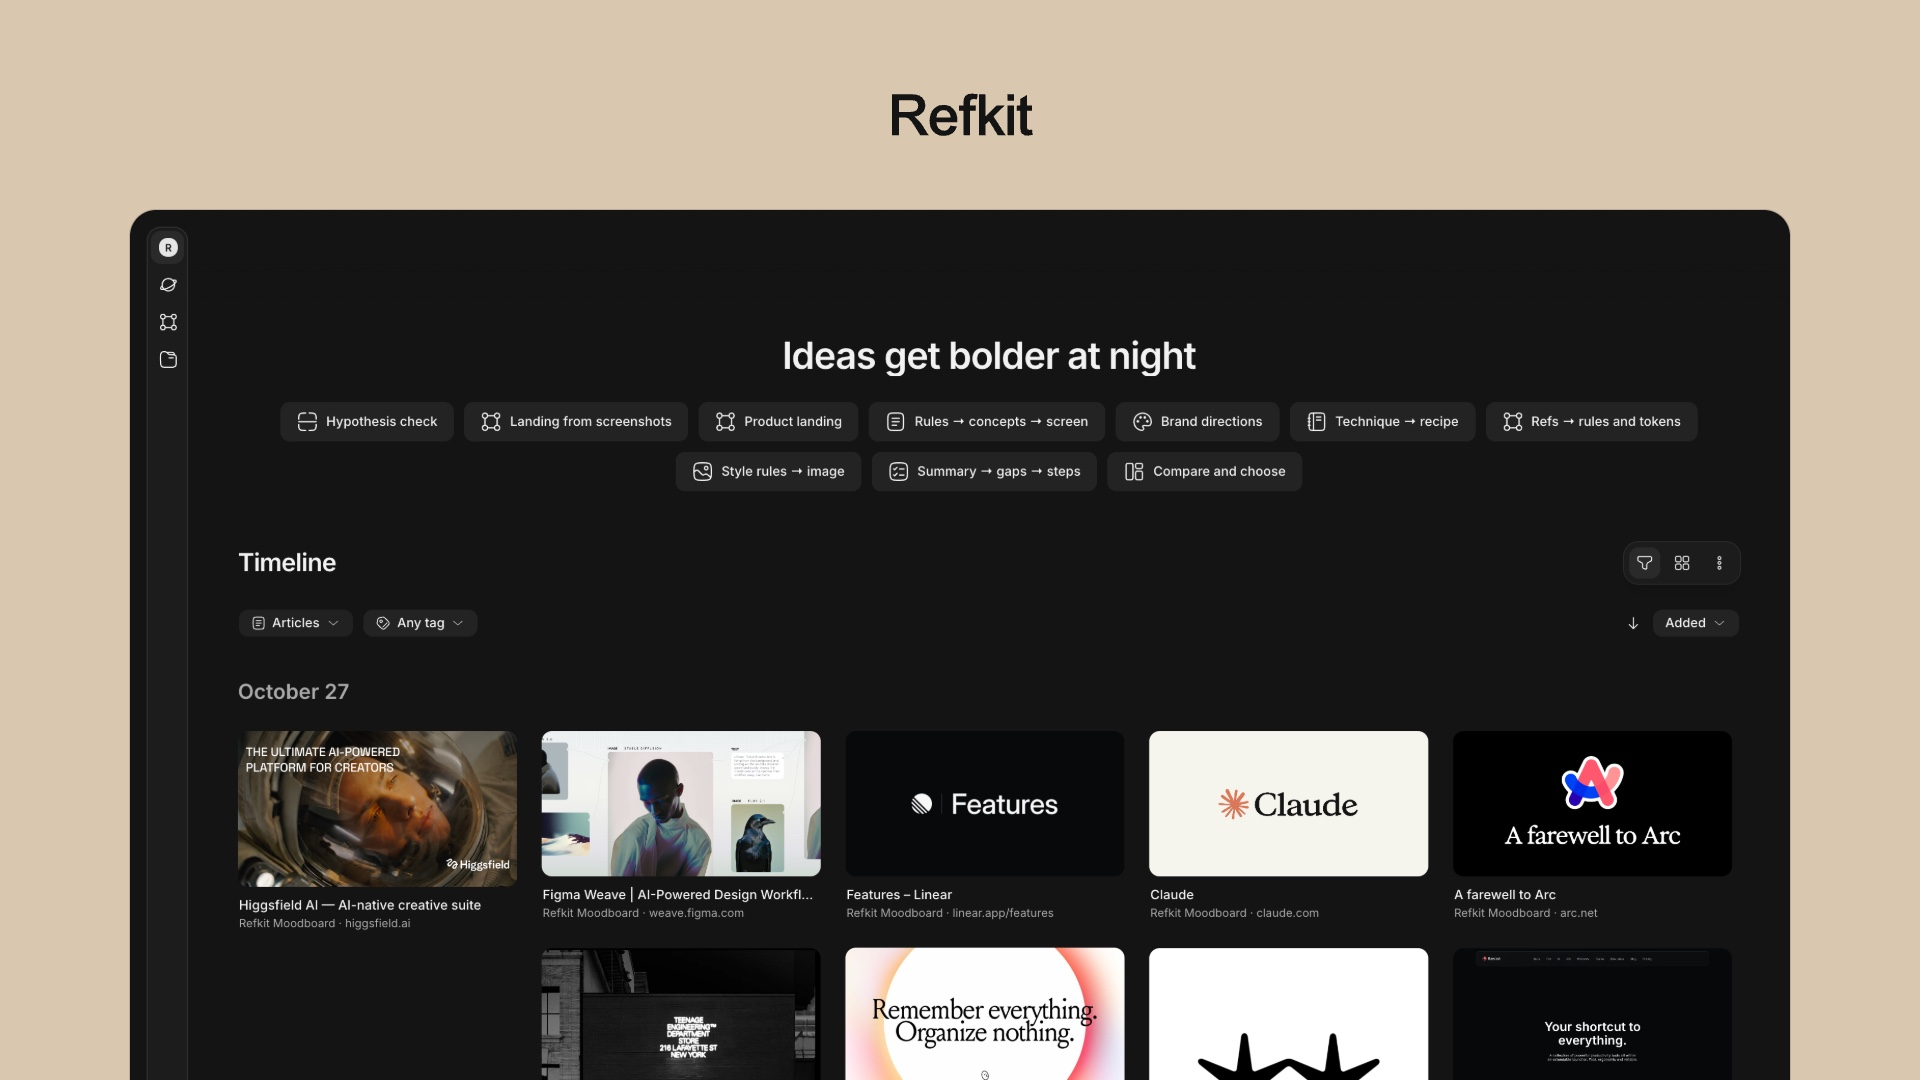
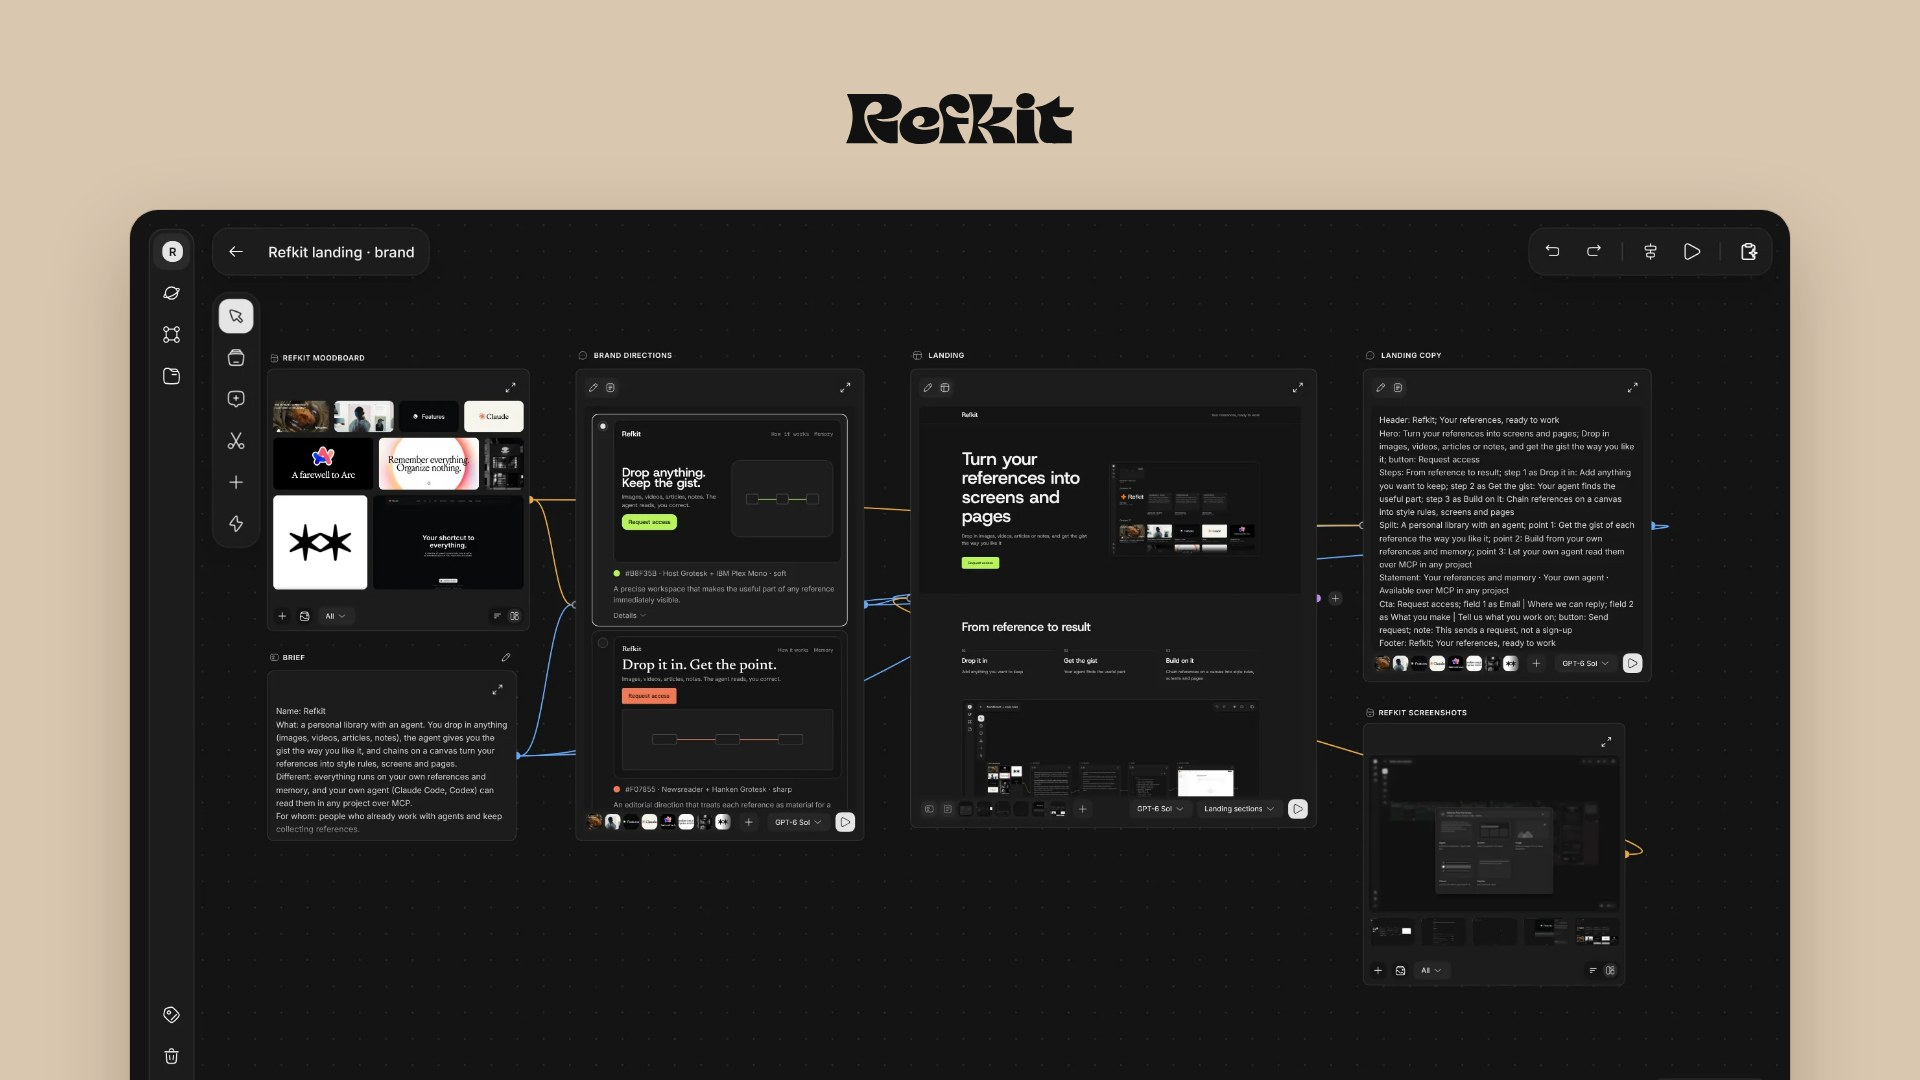
Portfolio

diff --git a/styles.css b/styles.css
@@ -32,17 +32,14 @@ h1 { max-width: var(--content-heading-max-width); margin: 0; color: var(--color-
 .project-meta p { margin: 0; }
 .project-meta h2 { margin: 0 0 var(--space-3); }
 .project-meta p:last-child { max-width: var(--content-body-max-width); color: var(--color-text-secondary); font-size: var(--font-size-body); font-weight: var(--font-weight-regular); line-height: var(--line-height-body); }
-.case-cursor { position: fixed; top: 0; left: 0; z-index: 1000; display: none; width: var(--cursor-size); height: var(--cursor-size); align-items: center; justify-content: center; overflow: hidden; border: var(--border-width) solid var(--color-cursor-ink); border-radius: var(--radius-pill); background: transparent; color: var(--color-cursor-ink); font-family: var(--font-family-sans); font-size: var(--font-size-button); font-weight: var(--font-weight-heading); letter-spacing: var(--letter-spacing-heading); line-height: var(--line-height-button); mix-blend-mode: difference; opacity: 0; pointer-events: none; transform: translate3d(var(--cursor-x, -100px), var(--cursor-y, -100px), 0) translate(-50%, -50%); transition: width var(--duration-medium) var(--ease-out), height var(--duration-medium) var(--ease-out), opacity var(--duration-fast) var(--ease-standard); white-space: nowrap; }
-.ds-contact-dialog .case-cursor { mix-blend-mode: normal; }
-.case-cursor span { opacity: 0; transform: translateY(var(--space-1)); transition: opacity 100ms var(--ease-standard), transform 160ms var(--ease-standard); }
-.case-cursor.is-visible { opacity: 1; }
-.case-cursor.is-case { width: var(--cursor-case-width); height: var(--control-cta-height); }
-.case-cursor.is-case span { opacity: 1; transform: translateY(var(--control-label-optical-shift)); transition-delay: 70ms; }
-
 .project--lavender .project-art { background: var(--color-project-base); }
 .project--paper .project-art { background: var(--gradient-project-paper); }
 .project--ink .project-art { background: var(--gradient-project-ink); }
 :root[data-theme="dark"] .project-art:not(.project-art--image) { filter: saturate(.88) brightness(.78); }
+.project-art--scout { background: var(--color-surface-explorer); }
+.project-scout-lockup { display: flex; flex-direction: column; align-items: center; gap: var(--space-4); }
+.project-scout-name { color: var(--color-text-primary); font-size: var(--font-size-display); font-weight: var(--font-weight-heading); letter-spacing: var(--letter-spacing-heading); line-height: var(--line-height-tight); }
+.project-scout-status { padding: var(--space-2) var(--space-4); border: var(--border-width) solid var(--color-hairline); border-radius: var(--radius-pill); color: var(--color-text-secondary); font-size: var(--font-size-label); line-height: var(--line-height-button); }
 
 .case-detail { display: grid; width: 100%; max-width: var(--layout-max-width); min-height: 100vh; margin: 0 auto; padding: var(--space-8) var(--layout-page-gutter) var(--space-30); grid-template-columns: minmax(0, 1fr); }
 .case-detail-topbar { display: flex; align-items: center; justify-content: space-between; margin-bottom: var(--case-topbar-gap); }
@@ -254,16 +251,10 @@ h1 { max-width: var(--content-heading-max-width); margin: 0; color: var(--color-
   .ds-doc-media { border-radius: var(--radius-media); }
 }
 
-@media (hover: hover) and (pointer: fine) {
-  .case-cursor { display: flex; }
-  html.custom-cursor-ready,
-  html.custom-cursor-ready body,
-  html.custom-cursor-ready body * { cursor: none !important; }
-}
-
 @media (prefers-reduced-motion: no-preference) {
   .project-art { transition: background-color var(--duration-medium) var(--ease-standard), filter var(--duration-medium) var(--ease-standard), transform var(--duration-medium) var(--ease-out); }
   .project-art:hover:not(.project-art--image) { transform: scale(.985); }
+  .project--static .project-art:hover { transform: none; }
 
   /* Reveal on scroll. Hidden states apply only once JS has added .reveal-ready,
      so the list stays readable if the script never runs. */
@@ -291,7 +282,6 @@ h1 { max-width: var(--content-heading-max-width); margin: 0; color: var(--color-
 }
 
 @media (prefers-reduced-motion: reduce) {
-  .case-cursor, .case-cursor span { transition: none; }
   .avatar { transition: none; }
 }
 

diff --git a/script.js b/script.js
@@ -4,7 +4,7 @@ document.querySelectorAll('.profile-footer-link[aria-disabled="true"]').forEach(
 
 const contactDialog = document.querySelector("[data-contact-dialog]");
 if (contactDialog) {
-  const contactCursor = document.querySelector(".case-cursor");
+  const contactCursor = document.querySelector(".site-cursor");
   const emailButton = contactDialog.querySelector("[data-copy-email]");
   const copyStatus = contactDialog.querySelector("[data-copy-status]");
   let copyResetTimer;
@@ -161,59 +161,14 @@ const smoothLoop = (now) => {
 
 if (!projects.length) requestAnimationFrame(smoothLoop);
 
-const caseCursor = document.querySelector(".case-cursor");
-
 if (projects.length) {
   const scrollSettleDelay = parseFloat(rootStyles.getPropertyValue("--scroll-settle-delay")) || 180;
   const scrollSnapDuration = parseFloat(rootStyles.getPropertyValue("--duration-scroll-snap")) || 900;
   const scrollSnapAttraction = parseFloat(rootStyles.getPropertyValue("--scroll-snap-attraction")) || 0.26;
   const projectTiltMaxAngle = parseFloat(rootStyles.getPropertyValue("--project-tilt-max-angle")) || 4;
-  let cursorX = -100;
-  let cursorY = -100;
-  let cursorTargetX = -100;
-  let cursorTargetY = -100;
-
-  const moveCaseCursor = (event) => {
-    if (!caseCursor || !precisePointer.matches) return;
-    cursorTargetX = event.clientX;
-    cursorTargetY = event.clientY;
-    if (!caseCursor.classList.contains("is-visible")) {
-      cursorX = cursorTargetX;
-      cursorY = cursorTargetY;
-      caseCursor.style.setProperty("--cursor-x", `${cursorX}px`);
-      caseCursor.style.setProperty("--cursor-y", `${cursorY}px`);
-    }
-    caseCursor.classList.add("is-visible");
-  };
-
-  const renderCaseCursor = () => {
-    if (!caseCursor || !precisePointer.matches) return;
-    const cursorSmoothing = reducedMotion.matches ? 1 : 0.42;
-    cursorX += (cursorTargetX - cursorX) * cursorSmoothing;
-    cursorY += (cursorTargetY - cursorY) * cursorSmoothing;
-    caseCursor.style.setProperty("--cursor-x", `${cursorX}px`);
-    caseCursor.style.setProperty("--cursor-y", `${cursorY}px`);
-  };
-
-  const syncCursorMode = () => {
-    const isEnabled = Boolean(caseCursor && precisePointer.matches);
-    document.documentElement.classList.toggle("custom-cursor-ready", isEnabled);
-    if (!isEnabled) caseCursor?.classList.remove("is-visible", "is-case");
-  };
-
-  const hideCaseCursor = () => caseCursor?.classList.remove("is-visible", "is-case");
-  const expandCaseCursor = () => caseCursor?.classList.add("is-case");
-  const collapseCaseCursor = () => caseCursor?.classList.remove("is-case");
-
-  syncCursorMode();
-  precisePointer.addEventListener("change", syncCursorMode);
-  document.addEventListener("pointermove", moveCaseCursor);
-  document.documentElement.addEventListener("pointerleave", hideCaseCursor);
-
   const openProject = (project) => {
     const caseUrl = project.dataset.caseUrl;
     if (!caseUrl) return;
-    collapseCaseCursor();
     const destination = new URL(caseUrl, window.location.href);
     if (destination.origin !== window.location.origin) {
       window.open(destination.href, "_blank", "noopener,noreferrer");
@@ -238,10 +193,6 @@ if (projects.length) {
         }
       });
     }
-    art?.addEventListener("pointerenter", () => {
-      if (hasCase) expandCaseCursor();
-    });
-    art?.addEventListener("pointerleave", collapseCaseCursor);
     if (art?.classList.contains("project-art--image")) {
       art.addEventListener("pointermove", (event) => {
         if (!precisePointer.matches || reducedMotion.matches || event.pointerType === "touch") return;
@@ -358,7 +309,6 @@ if (projects.length) {
 
   const animate = (now) => {
     renderSmoothScroll(now);
-    renderCaseCursor();
     renderCoverParallax();
     requestAnimationFrame(animate);
   };

diff --git a/cursor.js b/cursor.js
@@ -1,0 +1,56 @@
+(() => {
+  const precisePointer = window.matchMedia("(hover: hover) and (pointer: fine)");
+  const reducedMotion = window.matchMedia("(prefers-reduced-motion: reduce)");
+  const cursor = document.createElement("div");
+  cursor.className = "site-cursor";
+  cursor.setAttribute("aria-hidden", "true");
+
+  const style = document.createElement("style");
+  style.textContent = `
+    .site-cursor { position: fixed; top: 0; left: 0; z-index: 2147483647; display: none; width: var(--cursor-size, 42px); height: var(--cursor-size, 42px); border: var(--border-width, 1px) solid var(--color-cursor-ink, #fff); border-radius: 50%; box-sizing: border-box; mix-blend-mode: difference; opacity: 0; pointer-events: none; transform: translate3d(var(--site-cursor-x, -100px), var(--site-cursor-y, -100px), 0) translate(-50%, -50%); transition: opacity var(--duration-fast, 160ms) var(--ease-standard, ease); }
+    .site-cursor.is-visible { opacity: 1; }
+    dialog .site-cursor { mix-blend-mode: normal; }
+    @media (hover: hover) and (pointer: fine) {
+      .site-cursor { display: block; }
+      html.site-cursor-ready, html.site-cursor-ready body, html.site-cursor-ready body * { cursor: none !important; }
+    }
+    @media (prefers-reduced-motion: reduce) { .site-cursor { transition: none; } }
+  `;
+  document.head.append(style);
+  document.body.append(cursor);
+
+  let x = -100;
+  let y = -100;
+  let targetX = -100;
+  let targetY = -100;
+
+  const syncMode = () => {
+    document.documentElement.classList.toggle("site-cursor-ready", precisePointer.matches);
+    if (!precisePointer.matches) cursor.classList.remove("is-visible");
+  };
+
+  document.addEventListener("pointermove", (event) => {
+    if (!precisePointer.matches) return;
+    targetX = event.clientX;
+    targetY = event.clientY;
+    if (!cursor.classList.contains("is-visible")) {
+      x = targetX;
+      y = targetY;
+    }
+    cursor.classList.add("is-visible");
+  });
+  document.documentElement.addEventListener("pointerleave", () => cursor.classList.remove("is-visible"));
+
+  const render = () => {
+    const smoothing = reducedMotion.matches ? 1 : 0.42;
+    x += (targetX - x) * smoothing;
+    y += (targetY - y) * smoothing;
+    cursor.style.setProperty("--site-cursor-x", `${x}px`);
+    cursor.style.setProperty("--site-cursor-y", `${y}px`);
+    requestAnimationFrame(render);
+  };
+
+  syncMode();
+  precisePointer.addEventListener("change", syncMode);
+  requestAnimationFrame(render);
+})();

diff --git a/case-atlas.html b/case-atlas.html
@@ -5,8 +5,8 @@
     <meta name="viewport" content="width=device-width, initial-scale=1.0" />
     <meta name="description" content="ATLAS: a music time machine that throws you into the sound of a place and an era. A product design case study by Nikolai Myshkin." />
     <title>ATLAS · Nikolai Myshkin</title>
-    <link rel="stylesheet" href="design-system.css?v=20261031-3" />
-    <link rel="stylesheet" href="styles.css?v=20261031-3" />
+    <link rel="stylesheet" href="design-system.css?v=20261104-1" />
+    <link rel="stylesheet" href="styles.css?v=20261104-1" />
     <script type="importmap">
       {
         "imports": {
@@ -15,9 +15,10 @@
         }
       }
     </script>
-    <script src="script.js?v=20261031-3" defer></script>
-    <script src="screen-gallery.js?v=20261031-3" defer></script>
-    <script type="module" src="tools/atlas-phone-motion.js?v=20261031-3"></script>
+    <script src="cursor.js?v=20261104-1" defer></script>
+    <script src="script.js?v=20261104-1" defer></script>
+    <script src="screen-gallery.js?v=20261104-1" defer></script>
+    <script type="module" src="tools/atlas-phone-motion.js?v=20261104-1"></script>
   </head>
   <body class="case-detail-body" data-case-reveal>
     <main class="case-detail" id="top">
@@ -36,7 +37,7 @@
         <figure class="ds-figure case-hero-media">
           <div class="ds-device">
             <div class="ds-embed" data-embed>
-              <iframe src="atlas-app/index.html?inset=44&amp;inset-bottom=8&amp;v=20261031-3" title="ATLAS prototype" allow="autoplay"></iframe>
+              <iframe src="atlas-app/index.html?inset=44&amp;inset-bottom=8&amp;v=20261104-1" title="ATLAS prototype" allow="autoplay"></iframe>
               <button class="case-embed-shield" type="button" data-embed-unlock aria-label="Tap to try the prototype"><span>Tap to try</span></button>
             </div>
             <div class="ds-device-status" aria-hidden="true">

diff --git a/index.html b/index.html
@@ -5,9 +5,10 @@
     <meta name="viewport" content="width=device-width, initial-scale=1.0" />
     <meta name="description" content="Nikolai Myshkin is a product designer building AI-native products through product research, UX, visual design, and code." />
     <title>Nikolai Myshkin | Product designer building AI-native products</title>
-    <link rel="stylesheet" href="design-system.css?v=20261031-3" />
-    <link rel="stylesheet" href="styles.css?v=20261031-3" />
-    <script src="script.js?v=20261031-3" defer></script>
+    <link rel="stylesheet" href="design-system.css?v=20261104-1" />
+    <link rel="stylesheet" href="styles.css?v=20261104-1" />
+    <script src="cursor.js?v=20261104-1" defer></script>
+    <script src="script.js?v=20261104-1" defer></script>
   </head>
   <body>
     <main class="layout">
@@ -47,11 +48,19 @@
             </div>
             <div class="project-meta"><h2>ATLAS</h2><p>A music time machine: the globe sets the place, the dial sets the era, and one tap sets both.</p></div>
           </article>
+
+          <article class="project project--static" id="scout">
+            <div class="project-art project-art--scout" aria-hidden="true">
+              <div class="project-scout-lockup">
+                <span class="project-scout-name">Scout</span>
+                <span class="project-scout-status">Coming soon</span>
+              </div>
+            </div>
+            <div class="project-meta"><h2>Scout</h2><p>Coming soon.</p></div>
+          </article>
         </div>
       </section>
     </main>
-
-    <div class="case-cursor" aria-hidden="true"><span>Watch the case</span></div>
 
     <dialog class="ds-contact-dialog ds-theme-dark" data-contact-dialog aria-labelledby="contact-title" tabindex="-1">
       <div class="ds-contact-header">

diff --git a/atlas-app/index.html b/atlas-app/index.html
@@ -4,6 +4,7 @@
 <meta charset="UTF-8">
 <meta name="viewport" content="width=device-width, initial-scale=1.0">
 <title>ATLAS — v4 (Figma Main Screen 212:1647)</title>
+<script src="../cursor.js" defer></script>
 <!-- единицу адаптива ставим ДО первой отрисовки: иначе интро успевает мигнуть
      в размерах макета, а на телефоне это в полтора раза больше экрана -->
 <script>
